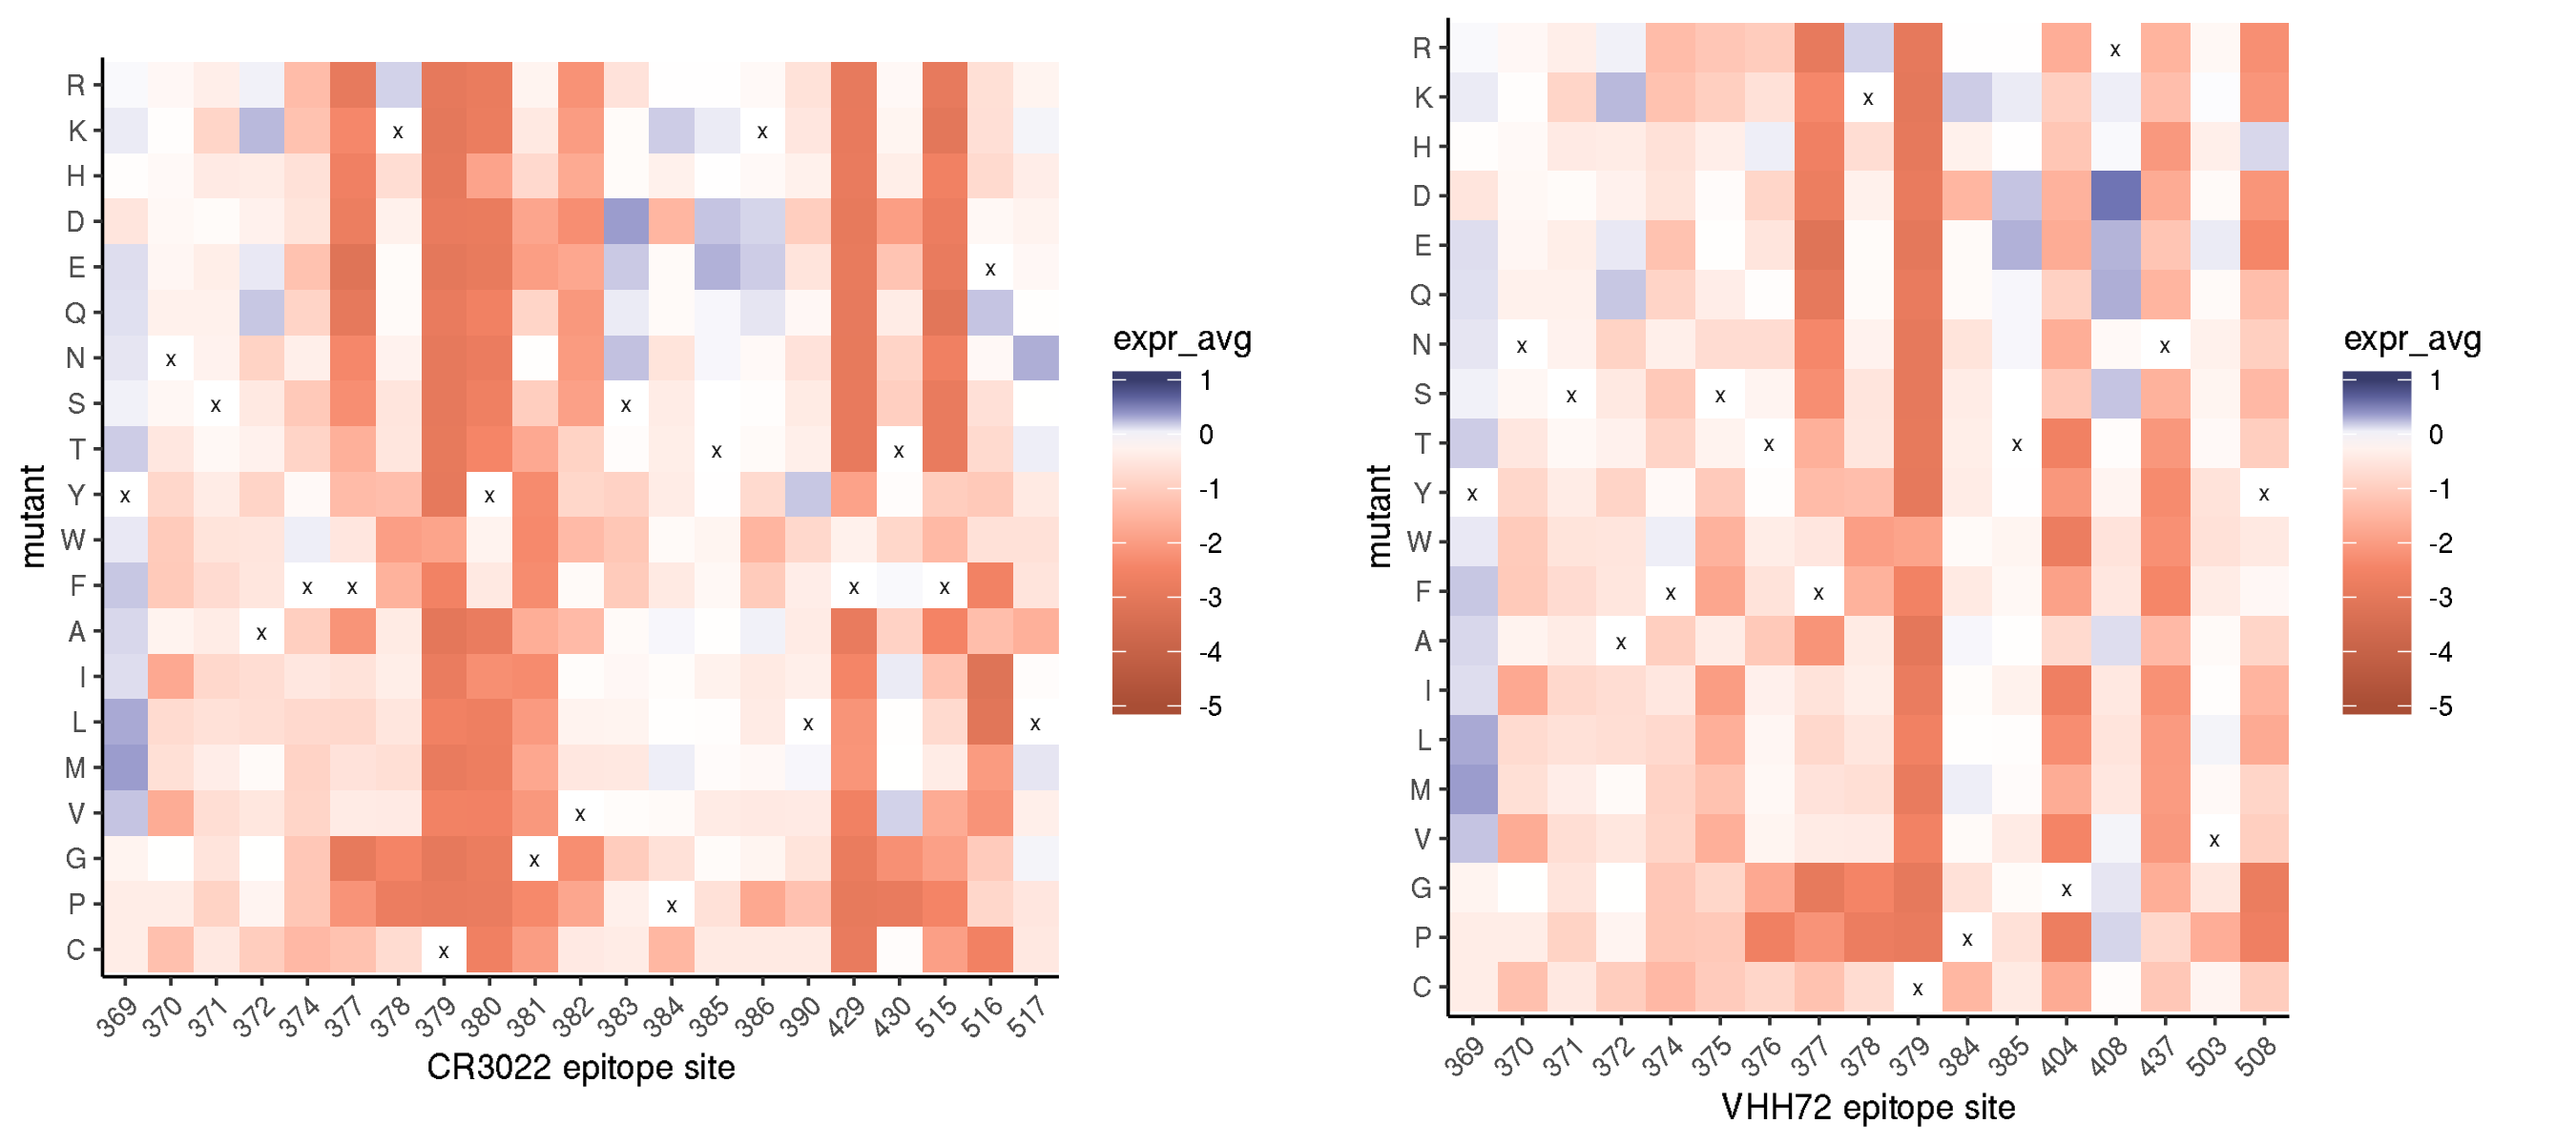
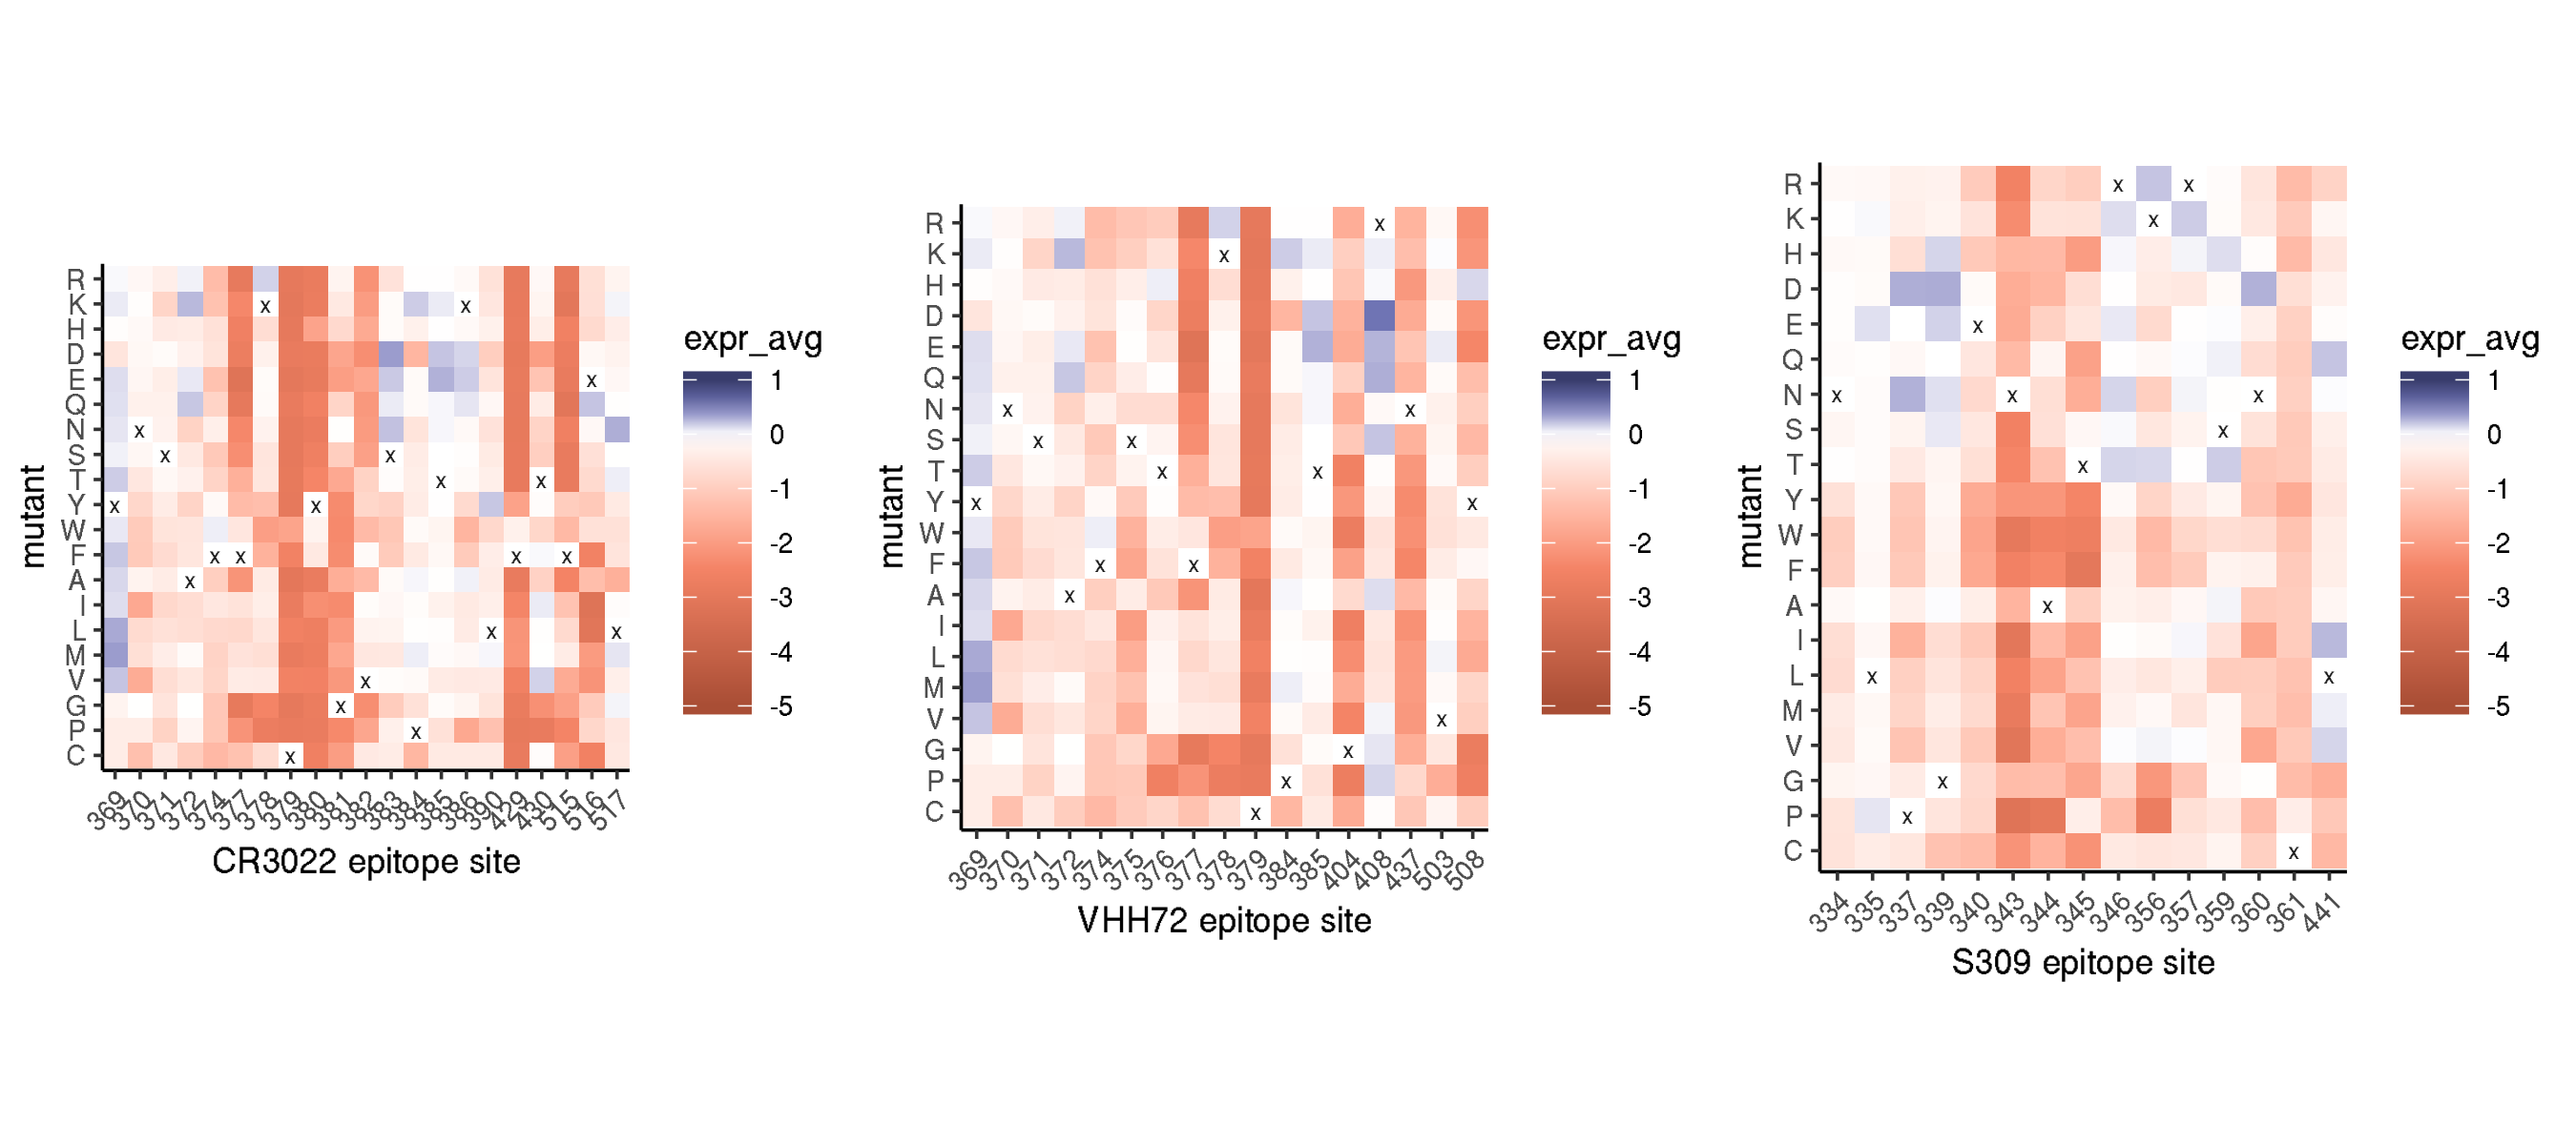
Run nb with S309, updated plots

diff --git a/results/summary/antibody_epitopes.md b/results/summary/antibody_epitopes.md
@@ -107,24 +107,22 @@ RBD_sites[,min_expr := min(mutants[SARS2_site==site_SARS2 & wildtype != mutant &
 
 ## Compare mutational tolerance within antibody epitopes
 
-We have annotated antibody epitope residues for seven mAbs with
-published structures – six of the seven mAbs were raised against
-SARS-CoV-1, but at least two of them cross-react with SARS-CoV-2
-(CR3022, VHH72), and more generally, they highlight the types of
+We have annotated antibody epitope residues for eight mAbs with
+published structures – seven of the eight mAbs were raised against
+SARS-CoV-1, but at least three of them cross-react with SARS-CoV-2
+(CR3022, VHH72, S309), and more generally, they highlight the types of
 epitopes that SARS-related CoV RBDs can induce. The seventh, B38, was
-isolated from a SARS-CoV-2 convalescent patient. Of course, many more
-SARS-CoV-2 raised mAbs will be upcoming, and we can add them in as
-needed, including mAbs (e.g. S309) whose structures are not yet publicly
-available.
+isolated from a SARS-CoV-2 convalescent patient.
 
 Let’s compare patterns of mutational sensitivity within each of the mAb
 epitopes, and compare to ACE2 contact residues for reference. Below, we
-output violin plots for individual mutational effects at sites within
-each epitope (top row), the average mutational effect per site for
-residues within each epitope (middle row), and the maximum mutational
-effect of any of the possible mutations per site for residues within
-each epitope (bottom row). The mean and max per-site give more global
-views of mutational constraint.
+output jitter plots that illustrate the range of individual mutational
+effects within each epitope (black points). The red diamond indicates
+the median effect of mutations within each epitope. We also output
+jiitter plots illustrating the *maximum* effect of any of the 19
+mutations within each antibody epitope – this reflects the most extreme
+form of constraint, where we see if a position has *any* mutations that
+are tolerated.
 
 <img src="antibody_epitopes_files/figure-gfm/violin_plot_epitope_mut_effects-1.png" style="display: block; margin: auto;" />
 
@@ -139,11 +137,11 @@ these five epitopes, Kruskal-Wallis ANOVA P-value 0.28). The average
 mutation in these RBM motif epitope sites incurs a \~0.5-0.6 reduction
 in log<sub>10</sub>(*K*<sub>A,app</sub>) ACE2-binding affinity, which is
 likely meaningful (more extreme than SARS-CoV-1 reduction in affinity
-(0.25 log10Ka uniits), on par with LYRa11 (0.5 log10Ka units) which can
+(0.25 log10Ka units), on par with LYRa11 (0.5 log10Ka units) which can
 still promote huACE2-mediated cellular entry, but with reduced
 quantitative in vitro infectivity according to Letko et al. 2020).
 
-As we can see in the structural alignment of mAbs bound to the RBD ini
+As we can see in the structural alignment of mAbs bound to the RBD in
 the PyMol session file I point to at the beginning of this notebook,
 these mAbs all clue into a couple “patches” of constrained residues in
 the RBM. 80R and B38 both bind to two patches at the direct ACE2 contact
@@ -159,11 +157,11 @@ recognition do seem to occupy the major patches of mutational constraint
 in this region, suggesting refining the approaches of these two types of
 RBM-directed mAbs might be fruitful.
 
-The other two antibodies, VHH72 and CR3022, bind epiitopes within the
-“core RBD”, meaning mutational constraint on expression might be more
-relevant – and we do see that mutations in these epitopes suffer
+The other three antibodies, VHH72, CR3022, and S309, bind epitopes
+within the “core RBD”, meaning mutational constraint on expression might
+be more relevant – and we do see that mutations in these epitopes suffer
 expression defects, with an average mutation defect of \~0.5 log-MFI
-uniits, which is substantial relative to the tight range of expression
+units, which is substantial relative to the tight range of expression
 seen among our panel of RBD homologs. We can see that much of the core
 RBD surface is constrained with respect to mutational effects on
 expression, along a lateral “belt” around the middle of the core RBD,
@@ -172,16 +170,19 @@ little ‘crevices’ on the RBD surface, compared to the more mutationally
 tolerant knobs that jut out. CR3022 does hone in one of these more
 obvious expression-constrained ‘patches’, centered around residue
 \~Y380. VHH72 binds to a seemingly less “red” patch just to the side of
-CR3022, centered around \~S375. Though we don’t have the structure yet,
-S309 will be binding to another pretty striking “patch” of mutational
-sensitivity in the core RBD, in the channel around N343 and its attached
-glycan. Our structural analysis points to another super obvious patch of
-mutational constraint, for which we have *not* seen any mAbs described
-(though perhaps we should look?), centered around E465 on the opposite
-side of the RBD from the VHH72 epitope. This region contacts the
-NTD/S<sup>A</sup> domain in the closed full Spike quaternary context but
-is exposed in the RBD-up conformation. Could be intersting to look more
-into\!
+CR3022, centered around \~S375. S309 engages a partially constrained
+patch near the N343 glycan, on the opposite “face” of the RBD compared
+to the other 7 mAbs. This face faces outward in the “down” RBD
+conformation in the full spike trimer structure – whereas the main face
+is actually buried in this structure, but becomes exposed when the RBD
+samples the “up” conformation.. Our structural analysis points to
+another patch of mutational constraint on this S309-side “exposed”
+surface, for which we have *not* seen any mAbs described (though perhaps
+we should look?), centered around E465. This region contacts the
+NTD/S<sup>A</sup> domain in the closed full spike quaternary context
+(but is exposed in the RBD-up conformation), which could enforce
+additional mutational constraint on this hypothetical epitope. Could be
+intersting to look more into\!
 
 For a more high-resolution look at the effects of particular mutations
 within each antibody epitope, we can visualize heatmaps of the sites
@@ -201,8 +202,8 @@ mediating human infectivity, and LYRa11, which can promote
 huACE2-mediated cellular infection in cell culture, though at reduced
 infectivity compared to e.g. SARS-CoV-1 RBD. Finally, we output the
 fraction of mutations within each epitope that have an expression effect
-of \>0.2, a somewhat arbitrary value (the range of expression phenotypes
-was \~0.18, but all higher than our SARS-CoV-2 wildtype).
+of \>-0.2, a somewhat arbitrary value (the range of expression
+phenotypes was \~0.18, but all higher than our SARS-CoV-2 wildtype).
 
 | epitope | median delta\_log<sub>10</sub>(*K*<sub>A,app</sub>) | median delta\_log-fluorescence | fraction muts \> SARS-CoV-1 affinity | fraction muts \> LYRa11 affinity | fraction muts \> -0.2 expression effect |
 | :------ | --------------------------------------------------: | -----------------------------: | -----------------------------------: | -------------------------------: | --------------------------------------: |
@@ -214,6 +215,7 @@ was \~0.18, but all higher than our SARS-CoV-2 wildtype).
 | S230    |                                              \-0.65 |                         \-0.44 |                                 0.33 |                             0.44 |                                    0.33 |
 | VHH72   |                                              \-0.16 |                         \-0.55 |                                 0.61 |                             0.72 |                                    0.28 |
 | CR3022  |                                              \-0.14 |                         \-0.59 |                                 0.63 |                             0.73 |                                    0.26 |
+| S309    |                                              \-0.14 |                         \-0.50 |                                 0.65 |                             0.85 |                                    0.32 |
 
 ## Comparison to natural sequence diversity
 
